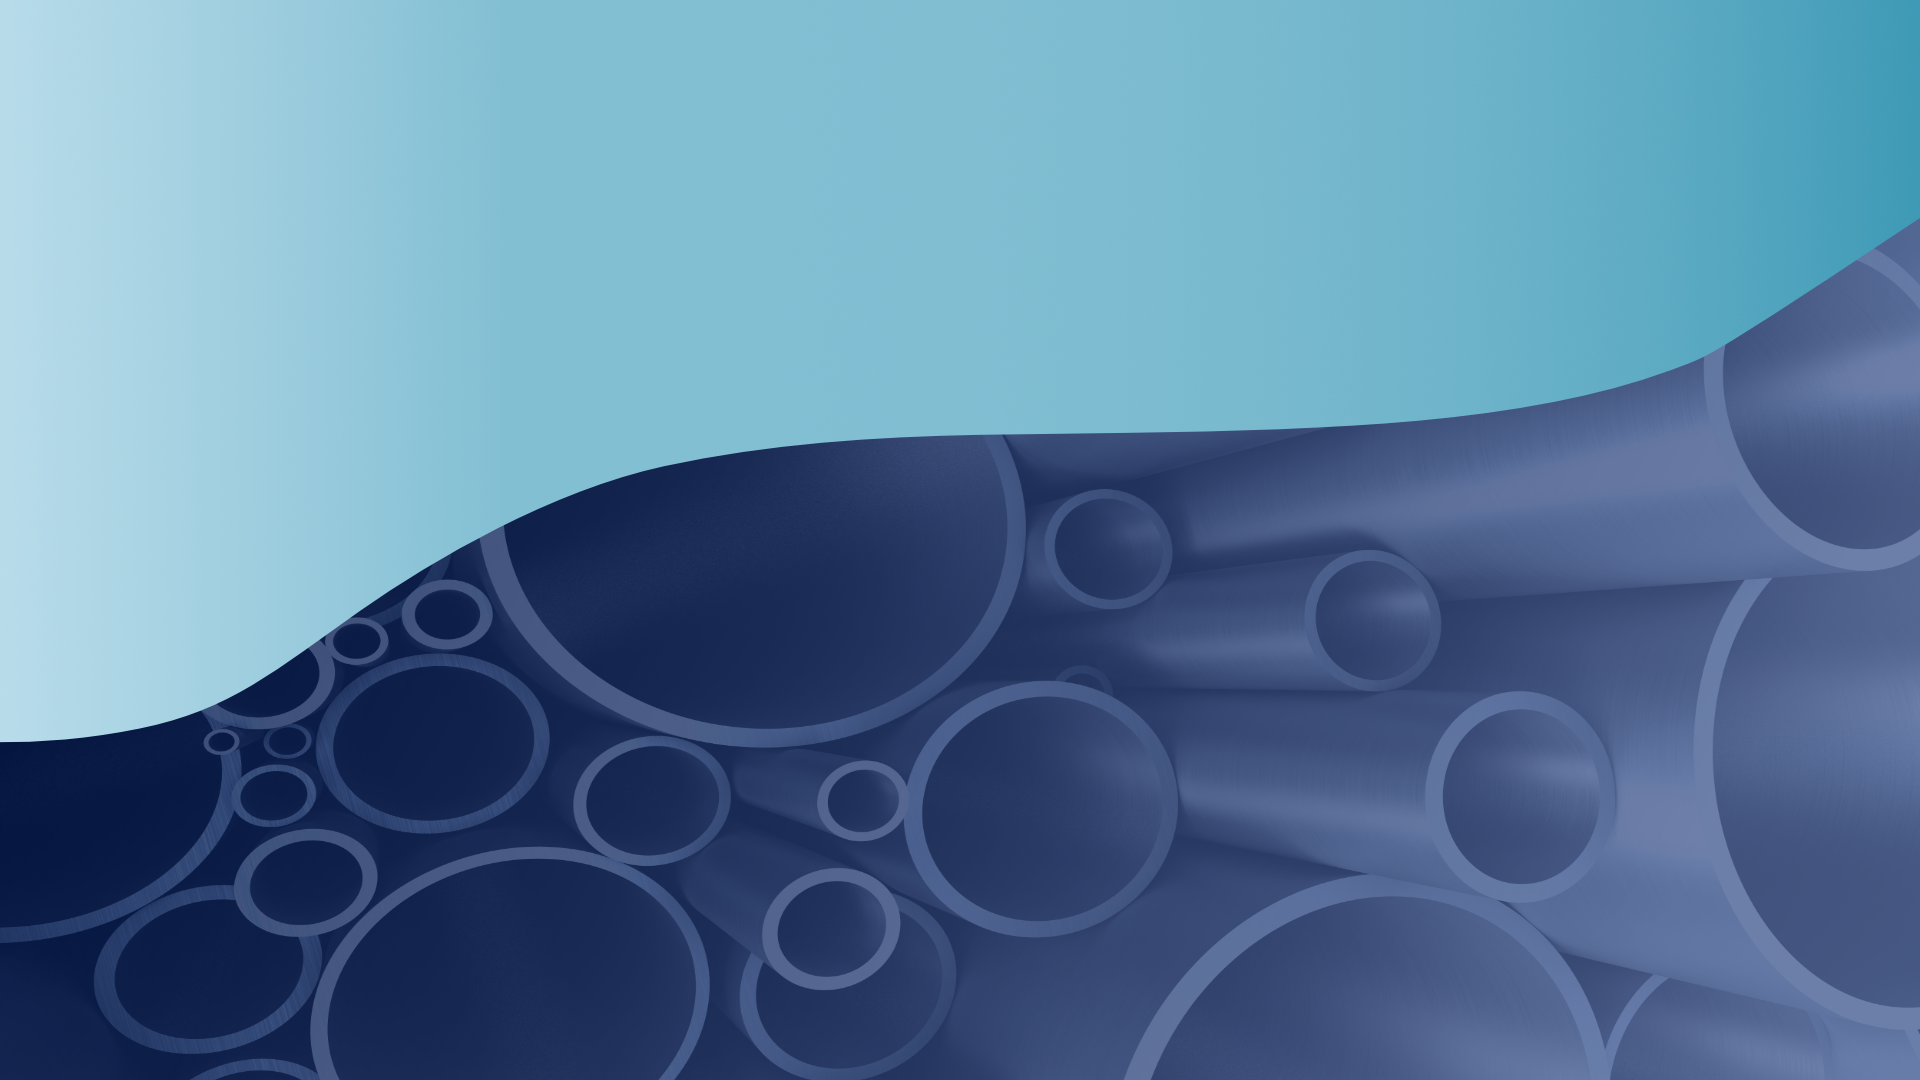
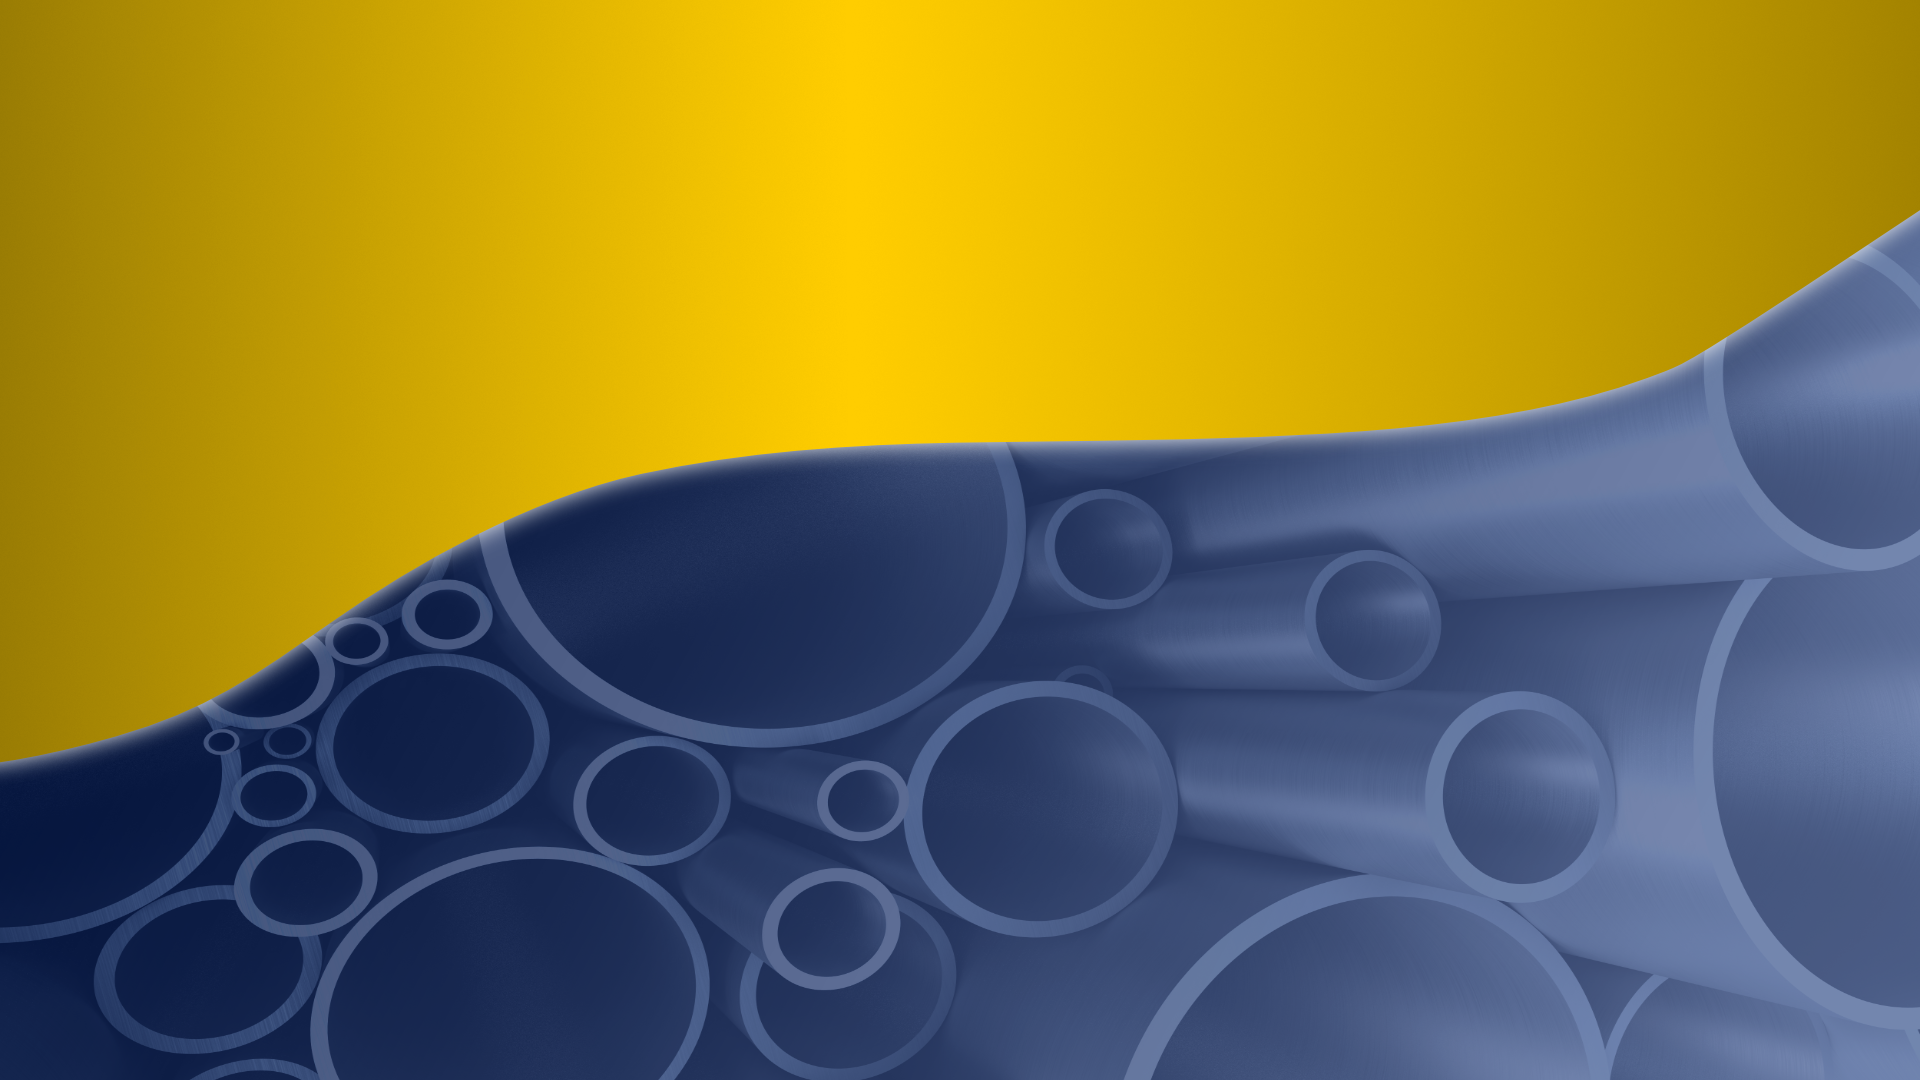
started adding more html

diff --git a/style.css b/style.css
@@ -4,7 +4,7 @@
   --clr-light: #54a6be;
   --clr-midtone: #01799c;
   --clr-dark: #012069;
-  --clr-contrast1: #ffcd00;
+  --clr-contrast1: #e8b01a;
   --clr-contrast2: #dadbdd;
   --clr-contrast3: #636669;
   --ff-primary: "Jura", sans-serif;
@@ -39,20 +39,32 @@ p,
   padding: 0 !important;
   margin: 0 !important;
 }
+
 main {
   height: 100vh;
+  background: linear-gradient(
+    to right top,
+    var(--clr-light),
+    var(--clr-midtone)
+  );
+  /* background-image: url(pipes.png);
+  background-size: cover; */
 
-  background: linear-gradient(to right top, var(--clr-lighter), #54a6be);
   display: flex;
-  align-items: center;
-  justify-content: center;
+  /* align-items: center; */
+  /* justify-content: center; */
+}
+
+input {
+  width: 3rem;
 }
 
 /* classes below */
 .navbar-brand {
-  color: white !important;
+  color: var(--clr-contrast2) !important;
 }
 .navbar {
+  border-radius: 0;
   background: var(--clr-dark);
 }
 .my-links a {
@@ -69,59 +81,53 @@ main {
 }
 
 .glass {
-  width: 60%;
-  min-height: 80vh;
-  background: linear-gradient(
-    to left top,
-    rgba(255, 255, 255, 0.5),
-    rgba(255, 255, 255, 0.3)
-  );
-  border-radius: 10px;
-  backdrop-filter: blur(3px);
-}
-
-/* id's below */
-.container-main {
-  padding: 10px 0 0 30px;
-  /* background-color: red; */
-}
-.title {
-  color: var(--clr-contrast2);
-  text-align: center;
-  padding: 10px;
-  /* background-color: var(--clr-light); */
-  margin-bottom: 20px;
-  border: 3px solid var(--clr-dark);
-  border-radius: 8px;
-  background-color: var(--clr-dark);
-  box-shadow: inset -1px -1px 5px white, inset 1px 1px 5px white;
-}
-
-.input {
   display: flex;
   flex-direction: column;
   padding: 20px;
-  background-color: transparent;
-  border-radius: 8px;
-  box-shadow: -5px -5px 10px var(--clr-dark), 5px 5px 10px var(--clr-dark);
-}
-.top-row {
-  display: flex;
-}
-#psize,
-#trim-angle {
-  width: 3rem;
-  /* display: inline; */
-}
-.input-row {
-  display: flex;
-  flex-direction: column;
   align-items: center;
+  /* justify-content: center; */
+  background: linear-gradient(
+    to right bottom,
+    rgba(0, 0, 0, 0.7),
+    rgba(255, 255, 255, 0.4)
+  );
+  border-radius: 10px;
+  backdrop-filter: blur(3px);
+  /* box-shadow: -5px -5px 10px var(--clr-midtone), 5px 5px 10px #00526a;
+  box-shadow: -5px -5px 10px var(--clr-lighter), 5px 5px 10px white; */
+}
+
+.input-row {
+  margin-top: 3rem;
+  text-align: center;
+  /* background-color: red; */
+  color: var(--clr-contrast2);
+}
+
+/* id's below */
+#glass-title {
+  /* width: 60%;
+  min-height: 80vh; */
+}
+.title {
+  /* color: var(--clr-dark); */
+  color: var(--clr-contrast1);
+
+  /* text-align: center; */
+  /* padding: 10px !important; */
+  /* background-color: var(--clr-light); */
+  /* margin-top: 20px !important; */
+  /* border: 3px solid var(--clr-dark); */
+  /* border-radius: 8px; */
+  /* background-color: transparent; */
+  /* box-shadow: inset -3px -3px 3px var(--clr-midtone), */
+  /* inset 2px 2px 3px var(--clr-midtone); */
 }
 
 img {
   width: 300px;
-  margin-left: 50px;
+  display: block;
+  /* margin-left: 50px; */
 
   /* height: 100%; */
 }

diff --git a/index.html b/index.html
@@ -72,8 +72,38 @@
       </div>
     </nav>
     <main>
-      <div class="glass"></div>
-      <!-- <div class="container-main">
+      <div class="glass" id="glass-title">
+        <h1 class="title">Elbow <em>Trim-Angle</em> Wizard</h1>
+        <div class="input-row">
+          <div class="user-input">
+            <label for="psize">Elbow NPS:</label>
+            <input
+              type="number"
+              step=".25"
+              min=".5"
+              max="48"
+              id="psize"
+              name="psize"
+              placeholder="3"
+            />
+            <div id="psizeInvalid"></div>
+          </div>
+          <div class="user-input">
+            <label for="trim-angle"> Trim Angle:</label>
+            <input
+              type="number"
+              step=".25"
+              min=".5"
+              max="48"
+              id="trim-angle"
+              name="trim-angle"
+              placeholder="45"
+            />
+            <div id="angleInvalid"></div>
+          </div>
+          <img src="trim.svg" />
+        </div>
+        <!-- <div class="container-main">
         <div class="top-row">
           <div class="input">
             <h1 class="title">Elbow Trim Angle Wizard</h1>
@@ -111,8 +141,8 @@
             </div>
           </div>
           <img src="trim.svg" />
-        </div>
-      </div> -->
+        </div>-->
+      </div>
     </main>
     <script src="script.js"></script>
   </body>
